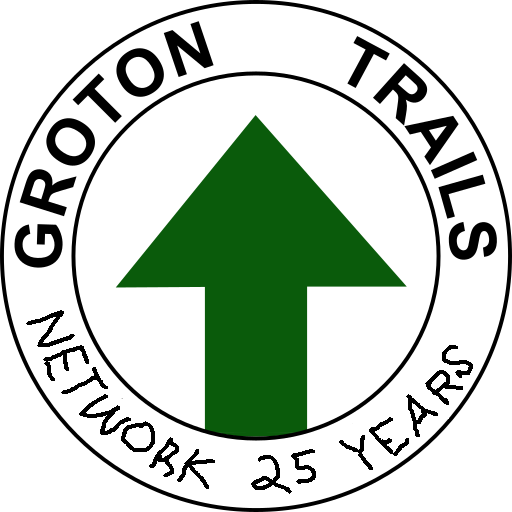
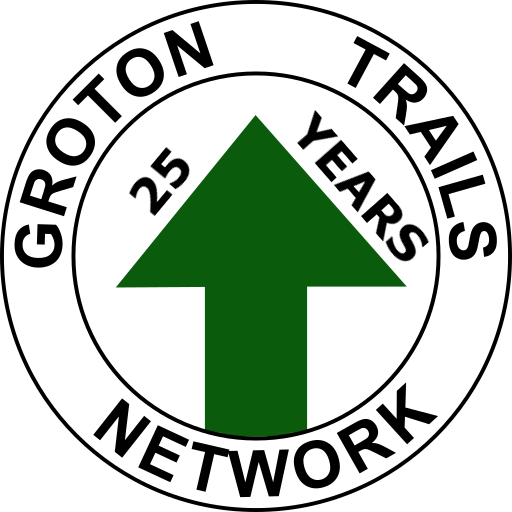
25 years update and patch art work

diff --git a/25years.html b/25years.html
@@ -93,7 +93,9 @@
     	<p style="max-width: 800px;">
   		<img align="left" src="images/patch.png" width="128px" height="128px" style="margin-right:20px;" title="GTC 25 Years Commemorative Patch">
    		Help us celebrate 25 years of the GTC by completing the quest for 25 locations.<br/>
-   		Visit the 25 location in the Groton tail system listed below, send us an email at <a href="mailto: Groton.Trails.Network@gmail.com">Groton.Trails.Network@gmail.com</a> and pickup your 25 year commemorative patch (shown on the left) at Groton Fest this fall.
+   		Visit the 25 location in the Groton tail system listed below, send us an email at <a href="mailto: Groton.Trails.Network@gmail.com">Groton.Trails.Network@gmail.com</a> 
+   		and pickup your 25 year commemorative patch (shown on the left) at Groton Fest this fall or at one of our meetings. We typically meet <strong> on the 3rd Tuesday of every 
+    	month </strong>. Check the Groton Town web site for meeting times and locations.
     	Supplies are limited.
    	</p>
 </section>
@@ -139,12 +141,12 @@ window.onclick = function(event) {
 }
 var quest = [
     {
-        "name": "Ames Pond",
+        "name": "Ames Pond in Groton Town Forest",
         "lng": -71.613992,
         "lat": 42.597256
     },
     {
-        "name": "Baddacook Pond",
+        "name": "Baddacook Pond Shoreline",
         "lat": 42.620372349572264,
         "lng":-71.53258323669435
     },
@@ -155,17 +157,22 @@ var quest = [
         "lat": 42.608523
     },
     {
-        "name": "Bates Land",
-        "lng": -71.56330,
-        "lat": 42.59296
+        "name": "Bates Land Lookout",
+        "lng": -71.5641474723816,
+        "lat": 42.59202100285563
     },
    	{
         "name": "Duck Pond Loop",
         "lng": -71.51543,
         "lat": 42.59208
    	},
+    {
+        "name": "Fitch’s Bridge",
+        "lng": -71.60890817642213,
+        "lat": 42.625472426597014
+    },
    	{
-        "name": "Gamlin Crystal Spring",
+        "name": "Gamlin Crystal Spring Esker Trail",
         "lng": -71.50450,
         "lat": 42.62878
    	},
@@ -175,9 +182,9 @@ var quest = [
         "lat": 42.58426,
     },
     {
-        "name": "Groton Hills",
-        "lat": 42.62765853493052,
-        "lng":-71.54035091400148
+        "name": "Groton Hills Hemlock Forest",
+        "lat": 42.62904226700341,
+        "lng":-71.53959989547731
     },
   	{
         "name": "Groton Place and Groton School Boathouse",
@@ -205,24 +212,24 @@ var quest = [
         "lat": 42.63326
     },
     {
-        "name": "Perry Land Boulder",
+        "name": "Perry Land Monolith",
         "lat": 42.63657723609199,
         "lng": -71.56206071376802
     },
     {
-        "name": "Rocky Hill Wildlife Sanctuary",
-        "lng": -71.53611,
-        "lat": 42.57841
+        "name": "Rocky Hill Wildlife Sanctuary Shelter Ledge	",
+        "lng": -71.5412735939026,
+        "lat": 42.574957729655914
     },
     {
-        "name": "Scarlett Hill",
+        "name": "Sand Dune",
+        "lng": -71.57584190368654,
+        "lat": 42.64665803634225
+    },
+    {
+        "name": "Scarlet Hill",
         "lng": -71.54865,
         "lat": 42.60999
-    },
-    {
-        "name": "Shepley Hills",
-        "lng": -71.572322,
-        "lat": 42.630228
     },
    	{
         "name": "Skinner Forest",
@@ -230,12 +237,12 @@ var quest = [
         "lat": 42.600415
    	},
    	{
-        "name": "Skitapet Conservation Area",
+        "name": "Skitapet Kettle Holes",
         "lng": -71.52070,
         "lat": 42.60484
    	},   	
     {
-        "name": "Soapstone Quarry.",
+        "name": "Soapstone Quarry at Shepley Hill",
         "lng": -71.573001,
         "lat": 42.626383
     },
@@ -250,19 +257,14 @@ var quest = [
         "lat": 42.651912
     },
     {
-        "name": "Throne Hill",
-        "lng": -71.627009,
-        "lat": 42.624326
-    },
-    {
         "name": "Unkety Brook Wildlife Observation Deck",
         "lng": -71.53830707,
         "lat": 42.6415
     },
    	{
-        "name": "Wharton Plantation",
-        "lng": -71.52472,
-        "lat": 42.63118
+        "name": "Wharton Plantation Heron Rookery",
+        "lng": -71.5267383,
+        "lat": 42.6321976
    	},
 ];
 var ul = document.getElementById("questlist");
